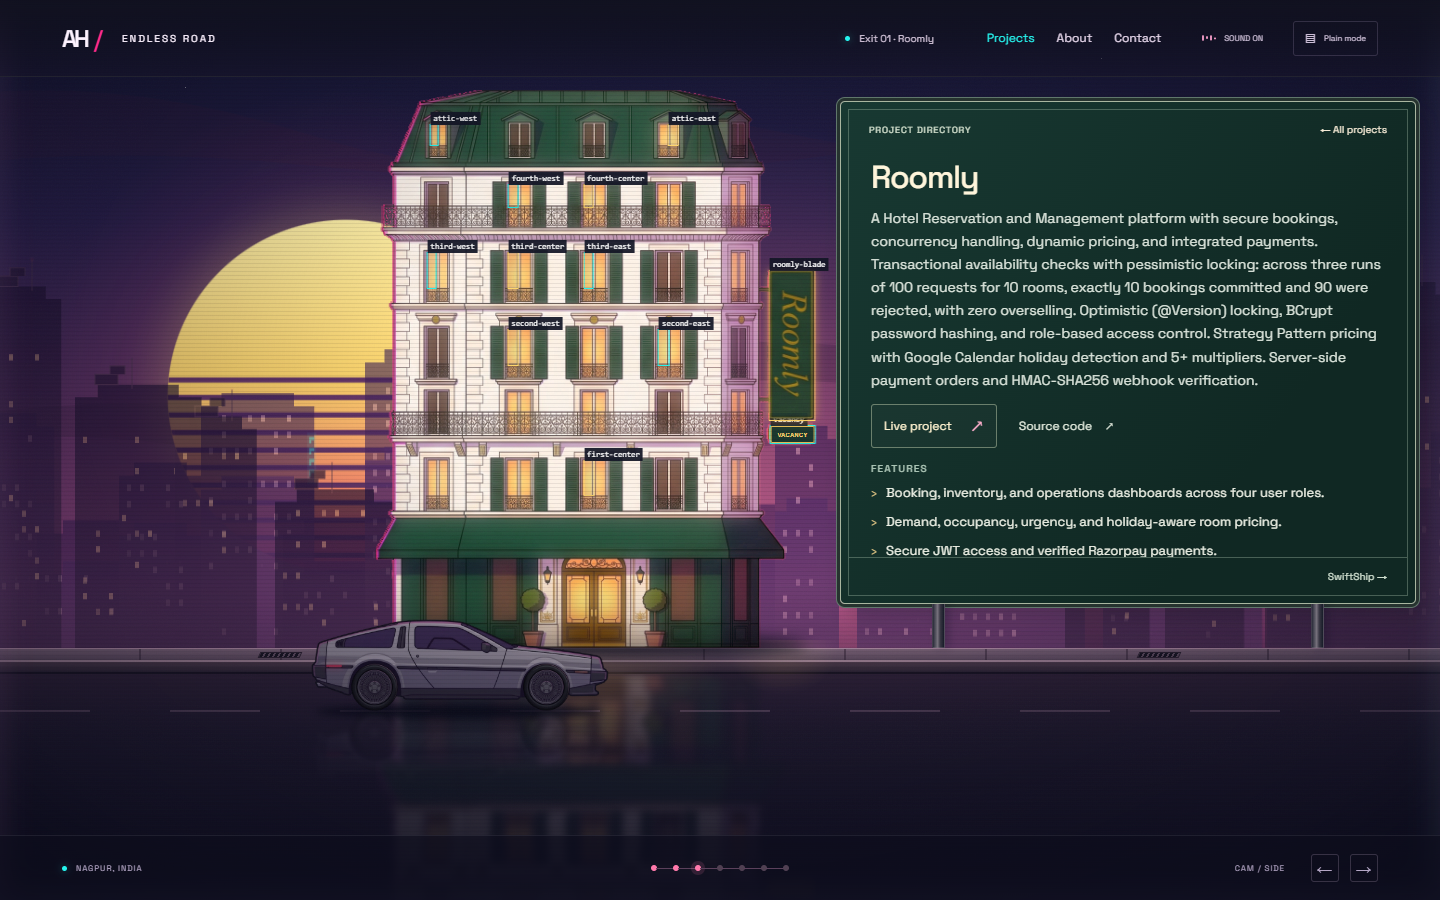
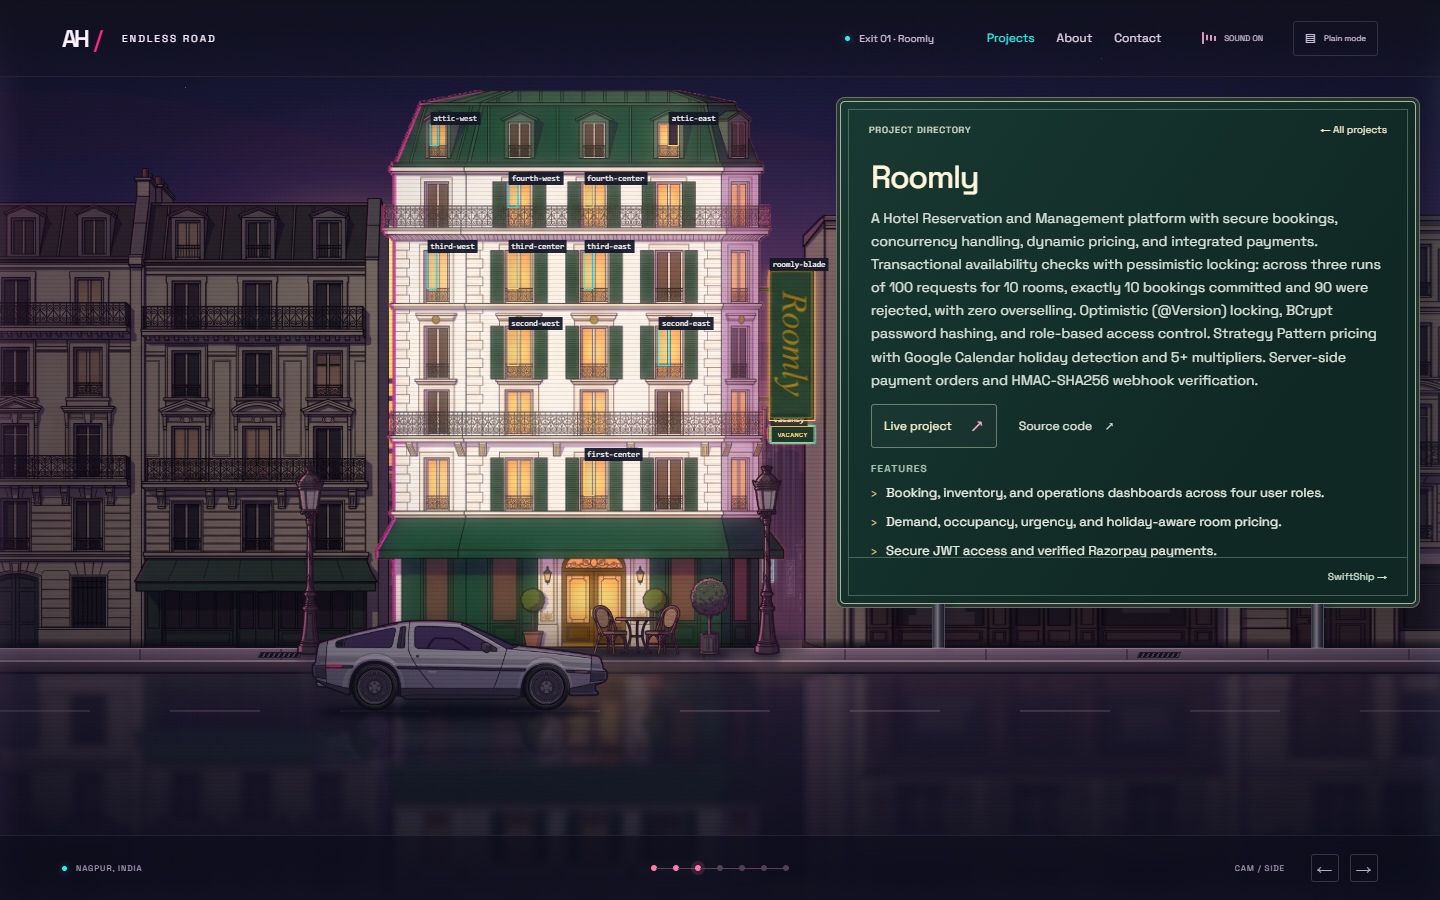
Verify environment prop clearance and refresh desktop and mobile previews

Changed region(s): [[0.0, 0.1867, 0.2812, 0.7467], [0.4062, 0.2489, 1.0, 0.84]]

diff --git a/tests/stops.spec.ts b/tests/stops.spec.ts
@@ -25,6 +25,17 @@ for (const viewport of [{width:1440,height:900}, {width:390,height:844}]) {
         const art = document.querySelector<HTMLImageElement>('.scene-frame[data-active="true"] .stop-art')!;
         return { building: bounds('.scene-frame[data-active="true"] .building-anchor'), curb: bounds('.scene-frame[data-active="true"] .stop-sidewalk'), card: bounds('.stop-project-panel'), car: bounds('.scene-frame[data-active="true"] .parked-car'), lane: bounds('.scene-frame[data-active="true"] .stop-near-lane'), overflow: document.documentElement.scrollWidth > innerWidth, imageReady: art.complete && art.naturalWidth > 0 };
       });
+      const props = page.locator('.scene-frame[data-active="true"] .stop-prop:visible');
+      const expectedProps = viewport.width < 768 ? (id === 'signalroute' ? 1 : 2) : (id === 'signalroute' ? 3 : 4);
+      await expect(props).toHaveCount(expectedProps);
+      for (const prop of await props.all()) {
+        await expect.poll(()=>prop.locator('.prop-art').evaluate((img:HTMLImageElement)=>img.complete && img.naturalWidth>0)).toBe(true);
+        const box = await prop.boundingBox();
+        expect(box).not.toBeNull();
+        expect(box!.x).toBeGreaterThanOrEqual(0);
+        if(viewport.width >= 768) expect(box!.x+box!.width+14).toBeLessThan(layout.card.left);
+        else expect(box!.y+box!.height).toBeLessThan(layout.card.top);
+      }
       expect(layout.imageReady).toBe(true);
       expect(layout.overflow).toBe(false);
       expect(Math.abs(layout.building.bottom - layout.curb.top)).toBeLessThan(1);

diff --git a/README.md b/README.md
@@ -130,3 +130,11 @@ The three city depths are generated in `src/components/scene/Skyline.tsx`; `mid-
 `SCENE_QUALITY` in `src/config.ts` controls bloom and reflection ripple. Bloom and ripple are disabled on mobile; reduced motion disables ripple and pointer parallax. `useStopPolish` cleans up its GSAP tweens and pointer listeners on unmount and when preferences change. Reflection displacement is horizontal only.
 
 Verification: `npm run build`; `npx playwright test tests/stops.spec.ts tests/polish.spec.ts`. These cover the home and three stop screenshots at 1440x900 and 390x844, sidewalk alignment, card clearance, console errors, scene cleanup, parallax and reduced-motion fallbacks. Updated previews are in `screenshots/`.
+
+### Illustrated skyline, neighbours and street props
+
+`npm run assets:key` now also runs `scripts/key-environment.mjs`. Canonical source sheets are `assets-src/props-raw.png`, `neighbors-raw.png`, and `skyline-raw.png`, copied from the supplied `screenshots/background-entities/` artwork. The single skyline sheet is used for all three depths with different scale and grading, as requested. Mirrored tiles conceal seams; antenna and blade-sign HTML overlays can be inspected with `?debug=rects`.
+
+The props extractor groups connected components into twelve named sprites, retaining disconnected rack/chair pieces while excluding pixels from adjacent objects. Outputs and crop reports live in `public/assets/props/`, `neighbors/`, and `skyline/`. `src/data/propAssets.ts` is generated by the pipeline.
+
+Edit each stop's `props` list in `src/data/stops.ts` to change its asset, horizontal percentage (of the usable scene area before the card), height relative to its building, scale, z-order, front/behind placement, and mobile visibility/position. Roomly and SwiftShip show four props on desktop and two on mobile; SignalRoute shows three and one. Roomly also has the two cropped neighbour facades, with reduced outer extents on mobile.
